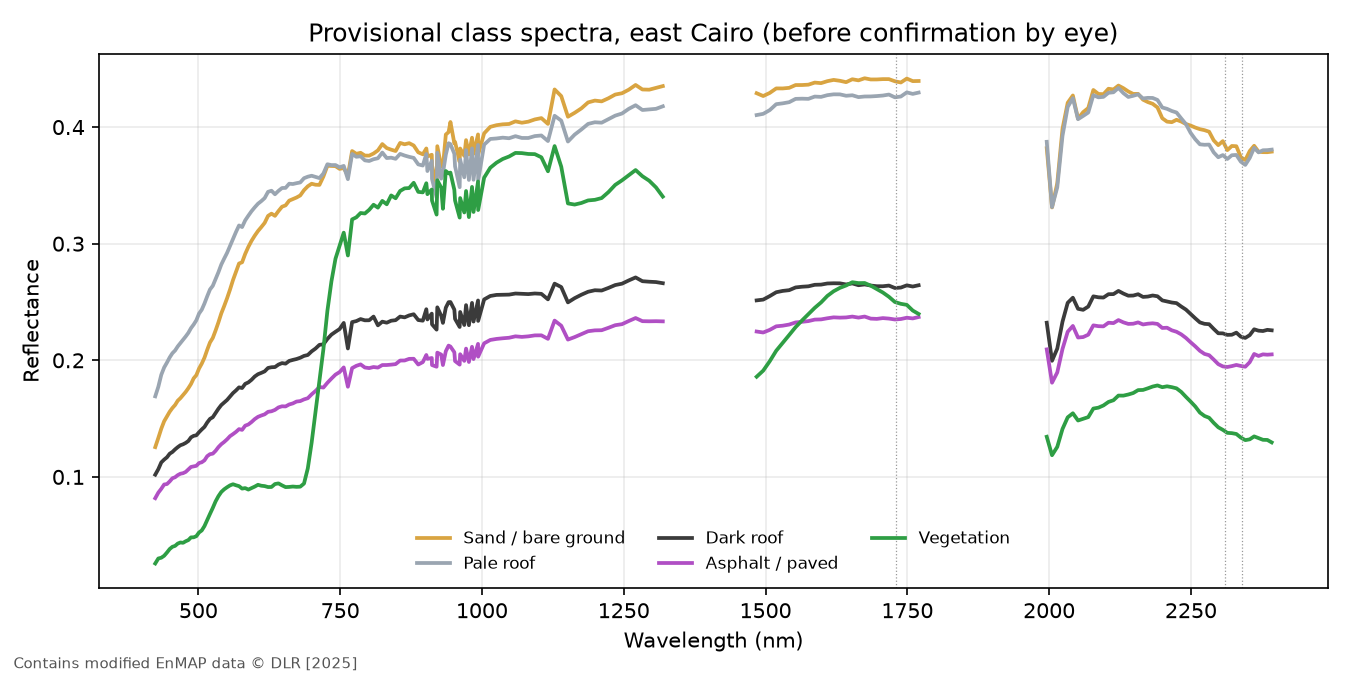
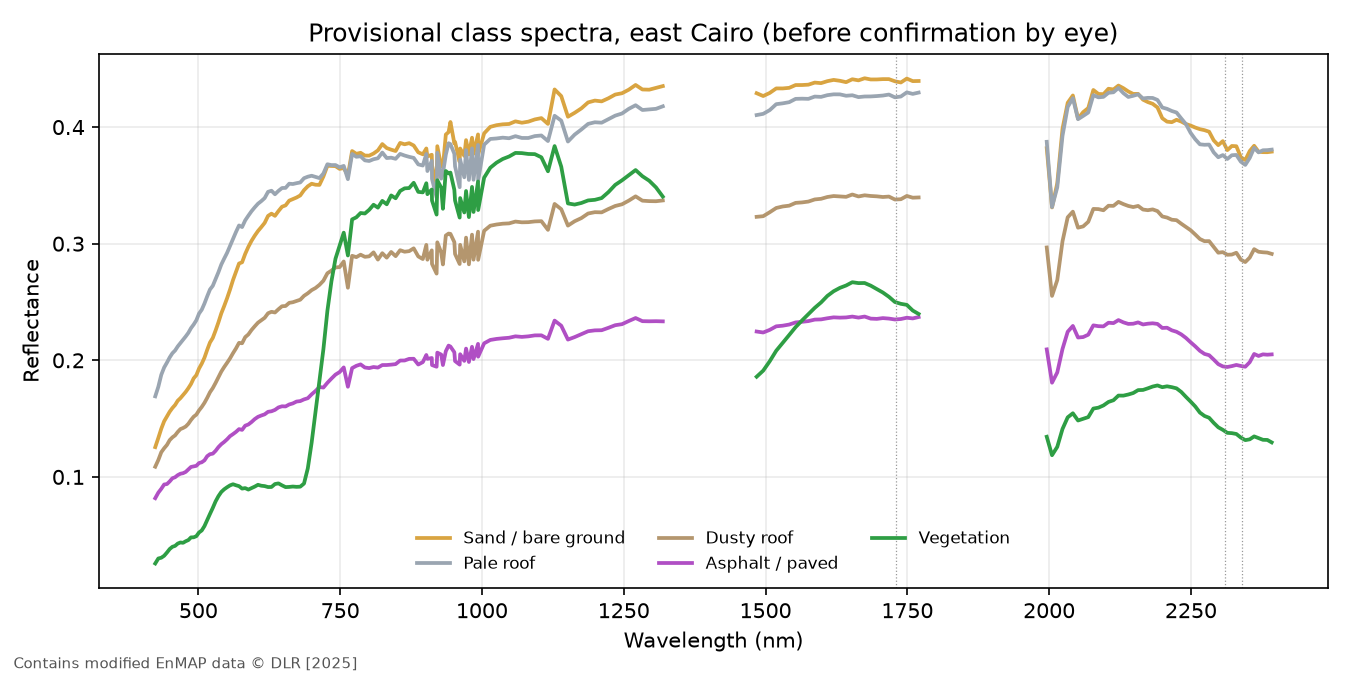
Replace the dark-roof library class with a dusty-roof class
The AI pre-check accepted none of the 12 dark-roof candidates: they were
mixed pixels, OSM footprint errors, or tan, dusty roofs. Shade is already
a fraction in the unmixing. Dusty roofs (the PoC's roof vs sand confusion)
take the class instead. They are ranked by homogeneity plus angle to the
sand mean. Rerunning the script now keeps the answers already in the sheet.

diff --git a/analysis/src/coolcairo/library.py b/analysis/src/coolcairo/library.py
@@ -15,6 +15,11 @@ Shadow is not a library class: at this scene's sun elevation (about 70 degrees) 
 casts a shadow about 0.36 x its height, so no 30 m pixel is fully shadowed (`shadow_fraction`
 measures it). Shadow enters the unmixing as a near-zero "shade" spectrum instead.
 
+Dark roof is not a library class either (decided 16 Nov 2026): a visual pre-check of the
+darkest pure-roof pixels found 0 of 12 real dark roofs (mixed pixels: gaps, courtyards, trees,
+shadow; two OSM footprint errors). Unmixing expresses dark rooftops as roof + shade. Instead,
+"dusty roof" (a roof whose spectrum is closest to sand) targets the project's main confusion.
+
 EnMAP licence: library spectra are derived products ("Contains modified EnMAP data (c) DLR").
 """
 
@@ -33,13 +38,13 @@ from pyproj import Transformer
 from rasterio.features import rasterize
 from scipy.ndimage import distance_transform_edt, minimum_filter
 
-SAND, PALE_ROOF, DARK_ROOF, ASPHALT, VEGETATION = (
-    "Sand / bare ground", "Pale roof", "Dark roof", "Asphalt / paved", "Vegetation")
-CLASSES = [SAND, PALE_ROOF, DARK_ROOF, ASPHALT, VEGETATION]
+SAND, PALE_ROOF, DUSTY_ROOF, ASPHALT, VEGETATION = (
+    "Sand / bare ground", "Pale roof", "Dusty roof", "Asphalt / paved", "Vegetation")
+CLASSES = [SAND, PALE_ROOF, DUSTY_ROOF, ASPHALT, VEGETATION]
 CLASS_HELP = {
     SAND: "Unbuilt sandy or dusty land, desert, empty plots",
     PALE_ROOF: "Light concrete or painted roofs: white, beige, light grey",
-    DARK_ROOF: "Dark roofs: bitumen, dark tiles, dark grey concrete, dark metal",
+    DUSTY_ROOF: "Roofs covered in dust or sand-coloured (tan, beige), looking like the ground",
     ASPHALT: "Asphalt road, car park, airport apron or runway",
     VEGETATION: "Trees, grass, gardens, green fields",
 }
@@ -158,7 +163,7 @@ def rule_masks(refl: xr.DataArray, roof_10m: np.ndarray, paved_10m: np.ndarray,
     grey = nd < NDVI_NOT_VEGETATED
 
     pure_roof = (roof >= ROOF_PURE) & grey & low_shadow
-    lo, hi = np.nanpercentile(br[pure_roof], [33, 67]) if pure_roof.any() else (0, 0)
+    hi = np.nanpercentile(br[pure_roof], 67) if pure_roof.any() else 0
     sand = (dist > SAND_MIN_DIST_M) & grey & (paved == 0)
     veg = nd >= NDVI_VEGETATION
     # Paved: darkest third only. OSM car parks and road edges in Cairo are often sandy, and
@@ -170,20 +175,33 @@ def rule_masks(refl: xr.DataArray, roof_10m: np.ndarray, paved_10m: np.ndarray,
         SAND: minimum_filter(sand.astype(np.uint8), size=3).astype(bool),
         VEGETATION: minimum_filter(veg.astype(np.uint8), size=3).astype(bool),
         PALE_ROOF: pure_roof & (br >= hi),
-        DARK_ROOF: pure_roof & (br <= lo),
+        DUSTY_ROOF: pure_roof & (br < hi),  # Ranked by closeness to sand in `candidates`.
         ASPHALT: paved_pure & (br <= dark_paved),
     }
 
 
 def candidates(refl: xr.DataArray, masks: dict[str, np.ndarray], crs: str,
                per_class: int = 12) -> pd.DataFrame:
-    """Best `per_class` pixels per class: most homogeneous first, spread `MIN_SPACING_M` apart."""
+    """Best `per_class` pixels per class, spread `MIN_SPACING_M` apart.
+
+    Ranking: most homogeneous first (smallest angle to the 8 neighbours). Dusty roof ranks by
+    angle to the mean sand spectrum plus that homogeneity angle: uniform roofs that look most
+    like sand, the confusion the material map has to resolve.
+    """
     angle = neighbour_angle(refl)
     nd, br = ndvi(refl), brightness(refl)
+    v = refl.values
+    sand_ref = np.nanmean(v[:, masks[SAND]], axis=1) if masks[SAND].any() else None
+    to_sand = np.full(angle.shape, np.nan)
+    if sand_ref is not None and np.isfinite(sand_ref).all():
+        cos = np.einsum("byx,b->yx", np.nan_to_num(v), sand_ref) / (
+            np.linalg.norm(np.nan_to_num(v), axis=0) * np.linalg.norm(sand_ref) + 1e-12)
+        to_sand = np.degrees(np.arccos(np.clip(cos, -1, 1)))
     rows = []
     for cls in CLASSES:
         yy, xx = np.nonzero(masks[cls] & np.isfinite(angle))
-        order = np.argsort(angle[yy, xx])
+        score = angle[yy, xx] + (to_sand[yy, xx] if cls == DUSTY_ROOF else 0)
+        order = np.argsort(score)
         picked: list[tuple[float, float]] = []
         for k in order:
             x, y = float(refl.x[xx[k]]), float(refl.y[yy[k]])
@@ -193,6 +211,7 @@ def candidates(refl: xr.DataArray, masks: dict[str, np.ndarray], crs: str,
                              "homogeneity_deg": round(float(angle[yy[k], xx[k]]), 2),
                              "ndvi": round(float(nd[yy[k], xx[k]]), 3),
                              "brightness": round(float(br[yy[k], xx[k]]), 3),
+                             "angle_to_sand_deg": round(float(to_sand[yy[k], xx[k]]), 2),
                              "pool": int(len(yy))})
             if len(picked) == per_class:
                 break
@@ -223,6 +242,7 @@ def angle_matrix(spectra: pd.DataFrame) -> pd.DataFrame:
 FONT = "Arial"
 HEADER_FILL = PatternFill("solid", fgColor="1F3A5F")
 INPUT_FILL = PatternFill("solid", fgColor="FFF2CC")
+AI_FILL = PatternFill("solid", fgColor="5B5B5B")
 THIN = Side(style="thin", color="BFBFBF")
 BOX = Border(left=THIN, right=THIN, top=THIN, bottom=THIN)
 
@@ -231,17 +251,37 @@ def maps_link(lat: float, lon: float) -> str:
     return f"https://www.google.com/maps/@{lat:.6f},{lon:.6f},60m/data=!3m1!1e3"
 
 
+ANSWER_COLUMNS = range(6, 11)  # Person: F-H. AI pre-check (not a confirmation): I-J.
+
+
+def _previous_answers(path: Path) -> dict[tuple, list]:
+    """Answers already in a sheet, keyed by (material, lat, lon), so a rerun keeps them."""
+    if not path.exists():
+        return {}
+    ws = load_workbook(path)["Candidates"]
+    out = {}
+    for r in range(2, ws.max_row + 1):
+        key = (ws.cell(r, 2).value, ws.cell(r, 3).value, ws.cell(r, 4).value)
+        values = [ws.cell(r, c).value for c in ANSWER_COLUMNS]
+        if key[0] and any(v not in (None, "") for v in values):
+            out[key] = values
+    return out
+
+
 def write_sheet(picks: pd.DataFrame, path: Path) -> Path:
+    """Confirmation sheet. Answers for candidates that were already in `path` are kept."""
+    previous = _previous_answers(path)
     wb = Workbook()
     _instructions(wb.active)
     ws = wb.create_sheet("Candidates")
     headers = ["#", "Proposed material", "Latitude", "Longitude", "Open in Google Maps",
-               "Is the whole 30 m square this material?", "If not, what is it?", "Notes"]
-    widths = [5, 20, 11, 11, 20, 30, 24, 40]
+               "Is the whole 30 m square this material?", "If not, what is it?", "Notes",
+               "AI pre-check (NOT a confirmation)", "AI pre-check note"]
+    widths = [5, 20, 11, 11, 20, 30, 24, 40, 26, 50]
     for col, (h, w) in enumerate(zip(headers, widths, strict=True), start=1):
         c = ws.cell(row=1, column=col, value=h)
         c.font = Font(name=FONT, bold=True, color="FFFFFF")
-        c.fill = HEADER_FILL
+        c.fill = HEADER_FILL if col <= 8 else AI_FILL
         c.alignment = Alignment(horizontal="center", vertical="center", wrap_text=True)
         ws.column_dimensions[c.column_letter].width = w
     ws.row_dimensions[1].height = 32
@@ -260,11 +300,14 @@ def write_sheet(picks: pd.DataFrame, path: Path) -> Path:
             ws.cell(row=r, column=col).fill = INPUT_FILL
         answer.add(ws.cell(row=r, column=6))
         other.add(ws.cell(row=r, column=7))
-        for col in range(1, 9):
+        kept = previous.get((p["class"], round(p["lat"], 6), round(p["lon"], 6)), [])
+        for col, v in zip(ANSWER_COLUMNS, kept, strict=False):
+            ws.cell(row=r, column=col, value=v)
+        for col in range(1, 11):
             cell = ws.cell(row=r, column=col)
             cell.border = BOX
             cell.font = Font(name=FONT, color="0563C1", underline="single") if col == 5 \
-                else Font(name=FONT)
+                else Font(name=FONT, italic=True, color="555555") if col > 8 else Font(name=FONT)
     ws.freeze_panes = "A2"
     path.parent.mkdir(parents=True, exist_ok=True)
     wb.save(path)
@@ -292,6 +335,9 @@ def _instructions(ws: object) -> None:
          "pixels spoil the library; rejecting a good pixel costs little."),
         ("Imagery date", "EnMAP scene: 22 April 2025. If the imagery shows construction since "
          "then, say so in the notes."),
+        ("AI pre-check", "The grey columns I-J hold a first look by Claude (AI) at Esri World "
+         "Imagery. It is NOT a confirmation: please still fill the yellow column yourself. Look "
+         "carefully at rows marked Mostly, No or Unsure; for rows marked Yes a glance is enough."),
         ("", None),
         ("Materials", None),
         *[(k, v) for k, v in CLASS_HELP.items()],
@@ -309,7 +355,7 @@ def _instructions(ws: object) -> None:
 def write_kml(picks: pd.DataFrame, crs: str, path: Path) -> Path:
     """Each candidate as its exact 30 m pixel square, for Google Earth."""
     to_wgs = Transformer.from_crs(crs, "EPSG:4326", always_xy=True)
-    colours = {SAND: "ff5ab4f0", PALE_ROOF: "ffffffff", DARK_ROOF: "ff3c3c3c",
+    colours = {SAND: "ff5ab4f0", PALE_ROOF: "ffffffff", DUSTY_ROOF: "ff7896b4",
                ASPHALT: "ffff00ff", VEGETATION: "ff00c800"}  # aabbggrr
     out = ['<?xml version="1.0" encoding="UTF-8"?>',
            '<kml xmlns="http://www.opengis.net/kml/2.2"><Document>',

diff --git a/analysis/make_library_candidates.py b/analysis/make_library_candidates.py
@@ -67,7 +67,7 @@ def plot(spectra: object, path: object, scene: str) -> None:
     fig, ax = plt.subplots(figsize=(9, 4.5), dpi=150)
     wl = spectra.index.to_numpy()
     gap = np.r_[False, np.diff(wl) > 30]  # Break the line over dropped water-vapour bands.
-    colours = {lib.SAND: "#d9a441", lib.PALE_ROOF: "#9aa5b1", lib.DARK_ROOF: "#3b3b3b",
+    colours = {lib.SAND: "#d9a441", lib.PALE_ROOF: "#9aa5b1", lib.DUSTY_ROOF: "#b4966e",
                lib.ASPHALT: "#b04fc4", lib.VEGETATION: "#2e9e44"}
     for cls in spectra.columns:
         y = spectra[cls].to_numpy().copy()

diff --git a/docs/spectral_library/README.md b/docs/spectral_library/README.md
@@ -16,12 +16,22 @@ that is independent of the EnMAP spectrum wherever possible:
 |---|---|---|
 | Sand / bare ground | Whole 3 × 3 patch > 300 m from any building, not vegetated, not on a road or car park | 52,751 |
 | Pale roof | Every 10 m cell inside an OSM footprint, not vegetated, modelled shadow ≤ 10 %, brightest third of such roofs | 342 |
-| Dark roof | Same, darkest third | 342 |
+| Dusty roof | Same rule, the other two thirds; ranked by homogeneity plus angle to the sand mean, so sand-like roofs come first | 693 |
 | Asphalt / paved | ≥ 80 % on a major road (buffered by half its width), apron or car park; no roof; darkest third | 1,578 |
 | Vegetation | Whole 3 × 3 patch with NDVI ≥ 0.45 | 239 |
 
 Within each pool, the most homogeneous pixels come first, measured by the spectral angle to the
 mean of their 8 neighbours. Picks are at least 300 m apart.
+
+### Why there is no "dark roof" class
+
+The first list had a "dark roof" class (darkest third of pure roofs). An AI look at the 12 picks in
+satellite imagery accepted none of them. Most were mixed (rooftops with courtyards, clutter, trees,
+streets or a tower's shadow), two were roads or car parks wrongly inside an OSM footprint, and the
+two large clean roofs were tan and dusty, not dark. At 30 m, darkness from shade is handled by the
+shade fraction in the unmixing. The class was therefore replaced by a **dusty roof** class: roofs
+covered in dust or coloured like the ground, which is the confusion the PoC map actually makes
+(dusty roof vs sand).
 
 ## Confirm the candidates
 
@@ -29,7 +39,10 @@ mean of their 8 neighbours. Picks are at least 300 m apart.
    Alternatively, use the links in `candidates.xlsx`.
 2. In `candidates.xlsx`, answer for each row whether the **whole** square is the proposed
    material.
-3. Only rows answered "Yes, all of it" or "Mostly" enter the library (`library.read_sheet`, then
+3. Columns I–J hold an **AI pre-check** of each square in satellite imagery. It is a hint, not a
+   confirmation: it accepted 43 of 60 (sand 9, pale roof 8, dusty roof 6, asphalt 9,
+   vegetation 11). Re-running the script keeps every answer already in the sheet.
+4. Only rows answered "Yes, all of it" or "Mostly" enter the library (`library.read_sheet`, then
    `library.library_from_sheet`).
 
 ## What the first look shows
@@ -44,7 +57,8 @@ These results come from the candidates before anyone has checked them. They are 
 - **Roofs, asphalt and sand have almost the same spectral shape.** The angles between them are
   2–4° (`provisional_angles.csv`). Vegetation is 21–23° from everything else. Cairo's dusty
   surfaces differ mostly in brightness, so the Spectral Angle Mapper on its own (which ignores
-  brightness) cannot separate them. The next step tests brightness and the narrow absorption
+  brightness) cannot separate them. The hardest pairs are dusty roof vs sand (1.2°) and dusty roof
+  vs asphalt (1.3°). The next step tests brightness and the narrow absorption
   features (≈ 1730, 2310 and 2340 nm, dotted lines in `provisional_spectra.png`).
 
 *Contains modified EnMAP data © DLR [2025] · © OpenStreetMap contributors (ODbL) · Google Open
